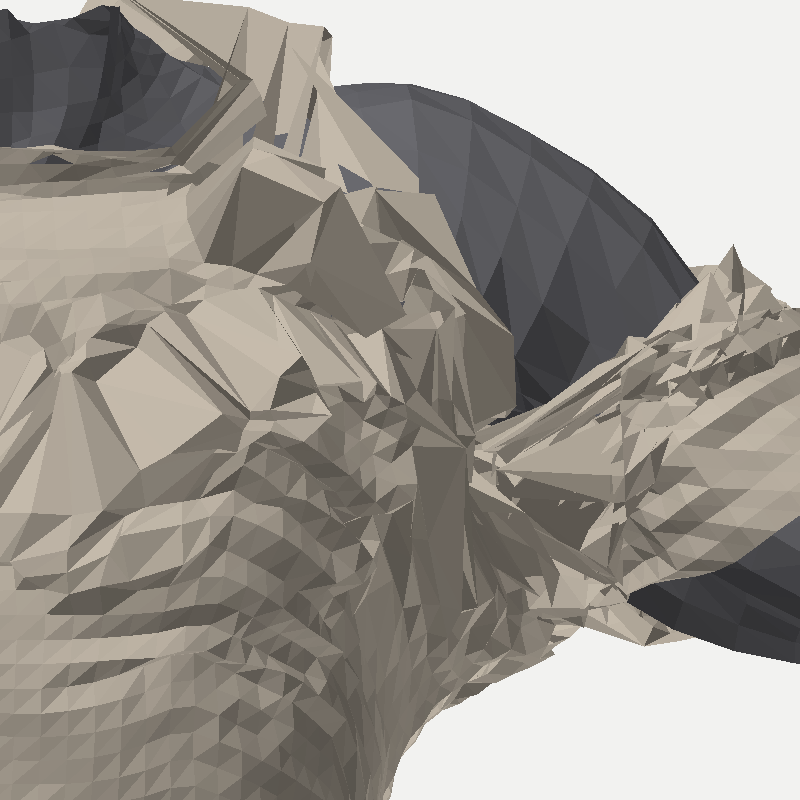
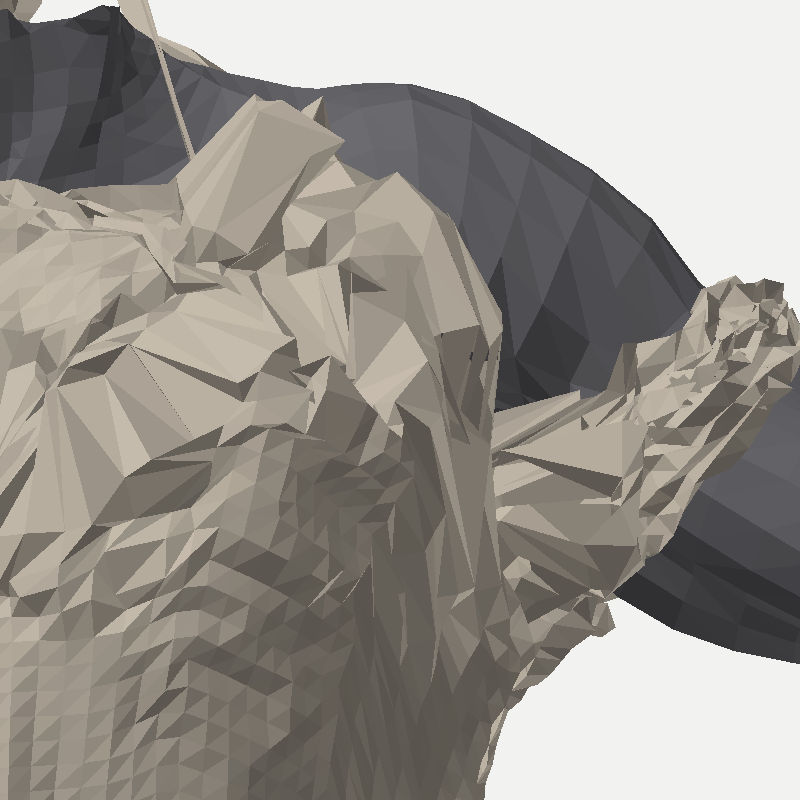
cloth sim: gravity along -Y (the body is Y-up; -Z pulled the cloth backwards), weld only converged seam pairs (averaging pairs 10-40 cm apart made the shards) — found by an independent review
Claude-Session: https://claude.ai/code/session_01T1FoqNFrnpWafKQH3B1Vx3

diff --git a/tools/assets/cloth/sim.py b/tools/assets/cloth/sim.py
@@ -458,10 +458,9 @@ def weld(Vs, V0, F0, UV0, seamG):
     for _, pr in seamG:
         for a, b in pr:
             g = math.dist(Vs[a], Vs[b])
-            if g < WELD_GAP:
-                nclose += 1
-            else:
-                nfar += 1
+            if g >= WELD_GAP:
+                nfar += 1; continue          # an open pair stays open: averaging points 10-40 cm apart made the huge shards
+            nclose += 1
             ra, rb = find(a), find(b)
             if ra != rb:
                 par[rb] = ra
@@ -679,7 +678,7 @@ def main():
     # ── PHASE 2: settle (gravity on, self-collision on) ──
     blendp = os.path.join(OUT, f'{garment}_high.blend')
     Vs_B, t2 = run_phase('усадка', WV, WF, [], bodyP, bodyT, mass, FRAMES_SETTLE,
-                         gravity=(0, 0, -9.81), sewing=False, shrink=0.0,
+                         gravity=(0, -9.81, 0), sewing=False, shrink=0.0,
                          self_coll=True, quality=QUALITY,
                          blend=(blendp, WV, WF, luv))
 
